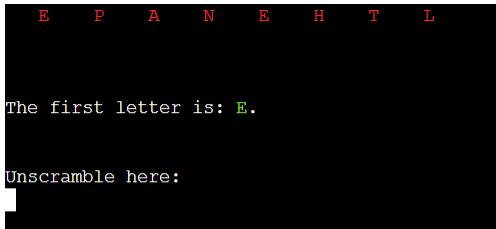
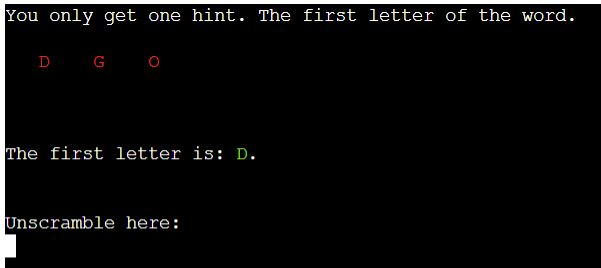
add bug image about the second H input

diff --git a/TESTING.md b/TESTING.md
@@ -105,7 +105,7 @@ At this point there is a chance that he/she inputs "H" that will give:
 
 ![screenshot](documentation/bug3.jpg).
 
-So even though "H" is not an option any more if the player enters "H" he/she will get to see the hint again and not an error.
+So even though "H" is not an option any more if the player enters "H" he/she will get to see the hint again and be reminded that he/she only get one hint. This away I am covering all the possible answers.
 
 
 ## Unfixed Bugs
